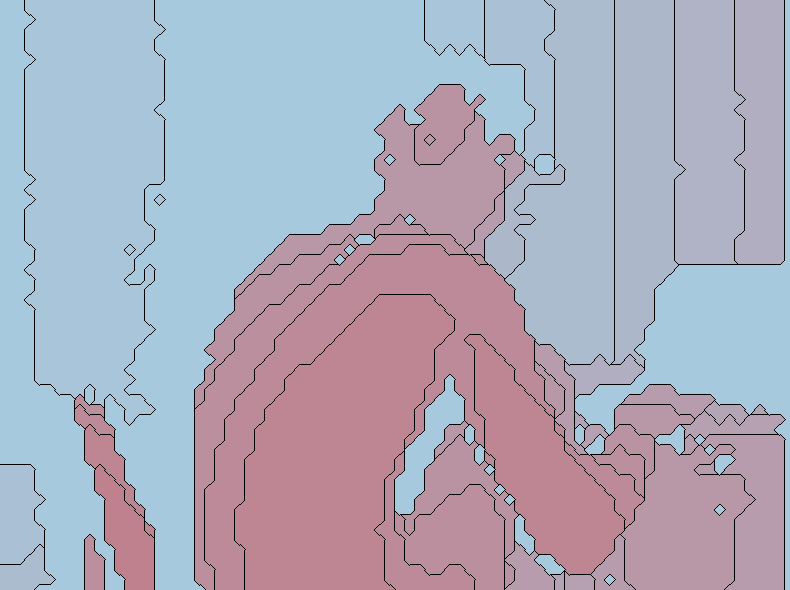
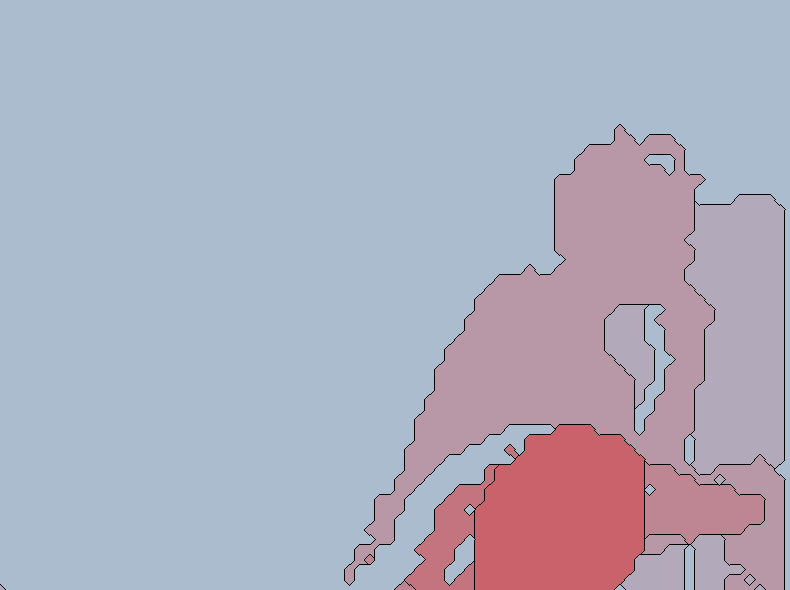
Optimisations and sever implementation

diff --git a/test.html b/test.html
@@ -5,15 +5,191 @@
     <title>AR sandbox</title>
   </head>
   <body>
-    <img id="image" src="./test.png?request=0">
+    <style>
+      #container {
+        position:relative;
+        width: 100%;
+        height: 100%;
+        overflow: clip;
+      }
+
+      #box {
+        position: absolute;
+        top: 0px;
+        left: 0px;
+        width: 150px;
+        height: 120px;
+        border: 0px;
+        transform-origin: 0 0;
+        -webkit-transform-origin: 0 0;
+        -moz-transform-origin: 0 0;
+        -o-transform-origin: 0 0;
+      }
+
+      .corner {
+        position: absolute;
+        top: 0px; left: 0px;
+        border: 1px solid blue;
+        background-color: blue;
+        z-index: 100;
+      }
+
+      .altCorner {
+        display: none;
+      }
+
+    </style>
+
+    <div id="container">
+      <img id="box" src="./test.png?request=0">
+      <div id="marker0" class="corner">TL</div>
+      <div id="marker2" class="corner">TR</div>
+      <div id="marker4" class="corner">BL</div>
+      <div id="marker6" class="corner">BR</div>
+  </div>
+
+    <!--Listen for edit mode on and off-->
+    <script>
+      window.onkeyup = function(e) {
+        var key = e.keyCode ? e.keyCode : e.which;
+
+        if (key == 69) {
+          document.getElementById("marker0").classList.toggle('altCorner');
+          document.getElementById("marker2").classList.toggle('altCorner');
+          document.getElementById("marker4").classList.toggle('altCorner');
+          document.getElementById("marker6").classList.toggle('altCorner');
+        }
+      }
+    </script>
+    <!-- Refresh image-->
     <script>
       counter=1;
       function redraw() {
-        document.getElementById("image").src="./test.png?request="+counter;
+        document.getElementById("box").src="./test.png?request="+counter;
         counter++;
       }
       window.setInterval(redraw, 1000);
 
+    </script>
+    <!--magic transform stuff-->
+    <script>
+      function adj(m) { // Compute the adjugate of m
+        return [
+          m[4]*m[8]-m[5]*m[7], m[2]*m[7]-m[1]*m[8], m[1]*m[5]-m[2]*m[4],
+          m[5]*m[6]-m[3]*m[8], m[0]*m[8]-m[2]*m[6], m[2]*m[3]-m[0]*m[5],
+          m[3]*m[7]-m[4]*m[6], m[1]*m[6]-m[0]*m[7], m[0]*m[4]-m[1]*m[3]
+        ];
+      }
+      function multmm(a, b) { // multiply two matrices
+        var c = Array(9);
+        for (var i = 0; i != 3; ++i) {
+          for (var j = 0; j != 3; ++j) {
+            var cij = 0;
+            for (var k = 0; k != 3; ++k) {
+              cij += a[3*i + k]*b[3*k + j];
+            }
+            c[3*i + j] = cij;
+          }
+        }
+        return c;
+      }
+      function multmv(m, v) { // multiply matrix and vector
+        return [
+          m[0]*v[0] + m[1]*v[1] + m[2]*v[2],
+          m[3]*v[0] + m[4]*v[1] + m[5]*v[2],
+          m[6]*v[0] + m[7]*v[1] + m[8]*v[2]
+        ];
+      }
+      function pdbg(m, v) {
+        var r = multmv(m, v);
+        return r + " (" + r[0]/r[2] + ", " + r[1]/r[2] + ")";
+      }
+      function basisToPoints(x1, y1, x2, y2, x3, y3, x4, y4) {
+        var m = [
+          x1, x2, x3,
+          y1, y2, y3,
+           1,  1,  1
+        ];
+        var v = multmv(adj(m), [x4, y4, 1]);
+        return multmm(m, [
+          v[0], 0, 0,
+          0, v[1], 0,
+          0, 0, v[2]
+        ]);
+      }
+      function general2DProjection(
+        x1s, y1s, x1d, y1d,
+        x2s, y2s, x2d, y2d,
+        x3s, y3s, x3d, y3d,
+        x4s, y4s, x4d, y4d
+      ) {
+        var s = basisToPoints(x1s, y1s, x2s, y2s, x3s, y3s, x4s, y4s);
+        var d = basisToPoints(x1d, y1d, x2d, y2d, x3d, y3d, x4d, y4d);
+        return multmm(d, adj(s));
+      }
+      function project(m, x, y) {
+        var v = multmv(m, [x, y, 1]);
+        return [v[0]/v[2], v[1]/v[2]];
+      }
+      function transform2d(elt, x1, y1, x2, y2, x3, y3, x4, y4) {
+        var w = elt.offsetWidth, h = elt.offsetHeight;
+        var t = general2DProjection
+          (0, 0, x1, y1, w, 0, x2, y2, 0, h, x3, y3, w, h, x4, y4);
+        for(i = 0; i != 9; ++i) t[i] = t[i]/t[8];
+        t = [t[0], t[3], 0, t[6],
+             t[1], t[4], 0, t[7],
+             0   , 0   , 1, 0   ,
+             t[2], t[5], 0, t[8]];
+        t = "matrix3d(" + t.join(", ") + ")";
+        elt.style["-webkit-transform"] = t;
+        elt.style["-moz-transform"] = t;
+        elt.style["-o-transform"] = t;
+        elt.style.transform = t;
+      }
+
+      corners = [100, 100, 300, 100, 100, 300, 300, 300];
+      function update() {
+        var box = document.getElementById("box");
+        transform2d(box, corners[0], corners[1], corners[2], corners[3],
+                         corners[4], corners[5], corners[6], corners[7]);
+        for (var i = 0; i != 8; i += 2) {
+          var elt = document.getElementById("marker" + i);
+          elt.style.left = corners[i] + "px";
+          elt.style.top = corners[i + 1] + "px";
+        }
+      }
+      function move(evnt) {
+        if (currentcorner < 0) return;
+        corners[currentcorner] = evnt.pageX;
+        corners[currentcorner + 1] = evnt.pageY;
+        update();
+      }
+      currentcorner = -1;
+      window.addEventListener('load', function() {
+        document.documentElement.style.margin="0px";
+        document.documentElement.style.padding="0px";
+        document.body.style.margin="0px";
+        document.body.style.padding="0px";
+        update();
+      });
+      window.addEventListener('mousedown', function(evnt) {
+        var x = evnt.pageX, y = evnt.pageY, dx, dy;
+        var best = 400; // 20px grab radius
+        currentcorner = -1;
+        for (var i = 0; i != 8; i += 2) {
+          dx = x - corners[i];
+          dy = y - corners[i + 1];
+          if (best > dx*dx + dy*dy) {
+            best = dx*dx + dy*dy;
+            currentcorner = i;
+          }
+        }
+        move(evnt);
+      });
+      window.addEventListener('mouseup', function(evnt) {
+        currentcorner = -1;
+      })
+      window.addEventListener('mousemove', move);
     </script>
   </body>
 </html>

diff --git a/main.py b/main.py
@@ -1,9 +1,14 @@
 from freenect import sync_get_depth as get_depth, sync_get_video as get_video
 from PIL import Image
+from datetime import datetime
+from http.server import BaseHTTPRequestHandler, HTTPServer
+import threading
 
 class sandbox(object):
     def __init__(self, colourScale):
         self.colourScale = colourScale
+        self.depthCache = None
+        self.imageCache = None
 
     def generateColour(self, percent):
         if percent==0.0:
@@ -113,6 +118,36 @@ class sandbox(object):
 
         return contours
 
+    def drawSquare(self, type, c1, c2, c3):
+        pass
+
+    def singleSquare(self, p1, p2, p3, p4, thresh, c1=(0, 0, 0, 0), c2=(0, 0, 0, 255), c3=(255, 255, 255, 255)):
+        images = [[c3, c3, c3, c3, c3, c3, c3, c3, c3, c3, c3, c3, c3, c3, c3, c3, c3, c3, c3, c3, c3, c3, c3, c3, c3, c3, c3, c3, c3, c3, c3, c3, c3, c3, c3, c3, c3, c3, c3, c3, c3, c3, c3, c3, c3, c3, c3, c3, c3, c3, c3, c3, c3, c3, c3, c3, c3, c3, c3, c3, c3, c3, c3, c3, c3, c3, c3, c3, c3, c3, c3, c3, c3, c3, c3, c3, c3, c3, c3, c3, c3, c3, c3, c3, c3, c3, c3, c3, c3, c3, c3, c3, c3, c3, c3, c3, c3, c3, c3, c3],[c3, c3, c3, c3, c3, c3, c3, c3, c3, c3, c3, c3, c3, c3, c3, c3, c3, c3, c3, c3, c3, c3, c3, c3, c3, c3, c3, c3, c3, c3, c3, c3, c3, c3, c3, c3, c3, c3, c3, c3, c2, c3, c3, c3, c3, c3, c3, c3, c3, c3, c1, c2, c3, c3, c3, c3, c3, c3, c3, c3, c1, c1, c2, c3, c3, c3, c3, c3, c3, c3, c1, c1, c1, c2, c3, c3, c3, c3, c3, c3, c1, c1, c1, c1, c2, c3, c3, c3, c3, c3, c1, c1, c1, c1, c1, c2, c3, c3, c3, c3],[c3, c3, c3, c3, c3, c3, c3, c3, c3, c3, c3, c3, c3, c3, c3, c3, c3, c3, c3, c3, c3, c3, c3, c3, c3, c3, c3, c3, c3, c3, c3, c3, c3, c3, c3, c3, c3, c3, c3, c3, c3, c3, c3, c3, c3, c3, c3, c3, c3, c2, c3, c3, c3, c3, c3, c3, c3, c3, c2, c1, c3, c3, c3, c3, c3, c3, c3, c2, c1, c1, c3, c3, c3, c3, c3, c3, c2, c1, c1, c1, c3, c3, c3, c3, c3, c2, c1, c1, c1, c1, c3, c3, c3, c3, c2, c1, c1, c1, c1, c1],[c3, c3, c3, c3, c3, c3, c3, c3, c3, c3, c3, c3, c3, c3, c3, c3, c3, c3, c3, c3, c3, c3, c3, c3, c3, c3, c3, c3, c3, c3, c3, c3, c3, c3, c3, c3, c3, c3, c3, c3, c2, c2, c2, c2, c2, c2, c2, c2, c2, c2, c1, c1, c1, c1, c1, c1, c1, c1, c1, c1, c1, c1, c1, c1, c1, c1, c1, c1, c1, c1, c1, c1, c1, c1, c1, c1, c1, c1, c1, c1, c1, c1, c1, c1, c1, c1, c1, c1, c1, c1, c1, c1, c1, c1, c1, c1, c1, c1, c1, c1],[c3, c3, c3, c3, c2, c1, c1, c1, c1, c1, c3, c3, c3, c3, c3, c2, c1, c1, c1, c1, c3, c3, c3, c3, c3, c3, c2, c1, c1, c1, c3, c3, c3, c3, c3, c3, c3, c2, c1, c1, c3, c3, c3, c3, c3, c3, c3, c3, c2, c1, c3, c3, c3, c3, c3, c3, c3, c3, c3, c2, c3, c3, c3, c3, c3, c3, c3, c3, c3, c3, c3, c3, c3, c3, c3, c3, c3, c3, c3, c3, c3, c3, c3, c3, c3, c3, c3, c3, c3, c3, c3, c3, c3, c3, c3, c3, c3, c3, c3, c3],[c3, c3, c3, c3, c2, c1, c1, c1, c1, c1, c3, c3, c3, c2, c1, c1, c1, c1, c1, c1, c3, c3, c2, c1, c1, c1, c1, c1, c1, c1, c3, c2, c1, c1, c1, c1, c1, c1, c1, c1, c2, c1, c1, c1, c1, c1, c1, c1, c1, c2, c1, c1, c1, c1, c1, c1, c1, c1, c2, c3, c1, c1, c1, c1, c1, c1, c1, c2, c3, c3, c1, c1, c1, c1, c1, c1, c2, c3, c3, c3, c1, c1, c1, c1, c1, c2, c3, c3, c3, c3, c1, c1, c1, c1, c2, c3, c3, c3, c3, c3],[c3, c3, c3, c3, c2, c1, c1, c1, c1, c1, c3, c3, c3, c3, c2, c1, c1, c1, c1, c1, c3, c3, c3, c3, c2, c1, c1, c1, c1, c1, c3, c3, c3, c3, c2, c1, c1, c1, c1, c1, c3, c3, c3, c3, c2, c1, c1, c1, c1, c1, c3, c3, c3, c3, c2, c1, c1, c1, c1, c1, c3, c3, c3, c3, c2, c1, c1, c1, c1, c1, c3, c3, c3, c3, c2, c1, c1, c1, c1, c1, c3, c3, c3, c3, c2, c1, c1, c1, c1, c1, c3, c3, c3, c3, c2, c1, c1, c1, c1, c1],[c3, c3, c3, c3, c2, c1, c1, c1, c1, c1, c3, c3, c3, c2, c1, c1, c1, c1, c1, c1, c3, c3, c2, c1, c1, c1, c1, c1, c1, c1, c3, c2, c1, c1, c1, c1, c1, c1, c1, c1, c2, c1, c1, c1, c1, c1, c1, c1, c1, c1, c1, c1, c1, c1, c1, c1, c1, c1, c1, c1, c1, c1, c1, c1, c1, c1, c1, c1, c1, c1, c1, c1, c1, c1, c1, c1, c1, c1, c1, c1, c1, c1, c1, c1, c1, c1, c1, c1, c1, c1, c1, c1, c1, c1, c1, c1, c1, c1, c1, c1],[c1, c1, c1, c1, c2, c3, c3, c3, c3, c3, c1, c1, c1, c2, c3, c3, c3, c3, c3, c3, c1, c1, c2, c3, c3, c3, c3, c3, c3, c3, c1, c2, c3, c3, c3, c3, c3, c3, c3, c3, c2, c3, c3, c3, c3, c3, c3, c3, c3, c3, c3, c3, c3, c3, c3, c3, c3, c3, c3, c3, c3, c3, c3, c3, c3, c3, c3, c3, c3, c3, c3, c3, c3, c3, c3, c3, c3, c3, c3, c3, c3, c3, c3, c3, c3, c3, c3, c3, c3, c3, c3, c3, c3, c3, c3, c3, c3, c3, c3, c3],[c1, c1, c1, c1, c2, c3, c3, c3, c3, c3, c1, c1, c1, c1, c2, c3, c3, c3, c3, c3, c1, c1, c1, c1, c2, c3, c3, c3, c3, c3, c1, c1, c1, c1, c2, c3, c3, c3, c3, c3, c1, c1, c1, c1, c2, c3, c3, c3, c3, c3, c1, c1, c1, c1, c2, c3, c3, c3, c3, c3, c1, c1, c1, c1, c2, c3, c3, c3, c3, c3, c1, c1, c1, c1, c2, c3, c3, c3, c3, c3, c1, c1, c1, c1, c2, c3, c3, c3, c3, c3, c1, c1, c1, c1, c2, c3, c3, c3, c3, c3],[c1, c1, c1, c1, c2, c3, c3, c3, c3, c3, c1, c1, c1, c1, c1, c2, c3, c3, c3, c3, c1, c1, c1, c1, c1, c1, c2, c3, c3, c3, c1, c1, c1, c1, c1, c1, c1, c2, c3, c3, c2, c1, c1, c1, c1, c1, c1, c1, c2, c3, c3, c2, c1, c1, c1, c1, c1, c1, c1, c2, c3, c3, c2, c1, c1, c1, c1, c1, c1, c1, c3, c3, c3, c2, c1, c1, c1, c1, c1, c1, c3, c3, c3, c3, c2, c1, c1, c1, c1, c1, c3, c3, c3, c3, c3, c2, c1, c1, c1, c1],[c1, c1, c1, c1, c2, c3, c3, c3, c3, c3, c1, c1, c1, c1, c1, c2, c3, c3, c3, c3, c1, c1, c1, c1, c1, c1, c2, c3, c3, c3, c1, c1, c1, c1, c1, c1, c1, c2, c3, c3, c1, c1, c1, c1, c1, c1, c1, c1, c2, c3, c1, c1, c1, c1, c1, c1, c1, c1, c1, c2, c1, c1, c1, c1, c1, c1, c1, c1, c1, c1, c1, c1, c1, c1, c1, c1, c1, c1, c1, c1, c1, c1, c1, c1, c1, c1, c1, c1, c1, c1, c1, c1, c1, c1, c1, c1, c1, c1, c1, c1],[c1, c1, c1, c1, c1, c1, c1, c1, c1, c1, c1, c1, c1, c1, c1, c1, c1, c1, c1, c1, c1, c1, c1, c1, c1, c1, c1, c1, c1, c1, c1, c1, c1, c1, c1, c1, c1, c1, c1, c1, c2, c2, c2, c2, c2, c2, c2, c2, c2, c2, c3, c3, c3, c3, c3, c3, c3, c3, c3, c3, c3, c3, c3, c3, c3, c3, c3, c3, c3, c3, c3, c3, c3, c3, c3, c3, c3, c3, c3, c3, c3, c3, c3, c3, c3, c3, c3, c3, c3, c3, c3, c3, c3, c3, c3, c3, c3, c3, c3, c3],[c1, c1, c1, c1, c1, c1, c1, c1, c1, c1, c1, c1, c1, c1, c1, c1, c1, c1, c1, c1, c1, c1, c1, c1, c1, c1, c1, c1, c1, c1, c1, c1, c1, c1, c1, c1, c1, c1, c1, c1, c1, c1, c1, c1, c1, c1, c1, c1, c1, c2, c1, c1, c1, c1, c1, c1, c1, c1, c2, c3, c1, c1, c1, c1, c1, c1, c1, c2, c3, c3, c1, c1, c1, c1, c1, c1, c2, c3, c3, c3, c1, c1, c1, c1, c1, c2, c3, c3, c3, c3, c1, c1, c1, c1, c2, c3, c3, c3, c3, c3],[c1, c1, c1, c1, c1, c1, c1, c1, c1, c1, c1, c1, c1, c1, c1, c1, c1, c1, c1, c1, c1, c1, c1, c1, c1, c1, c1, c1, c1, c1, c1, c1, c1, c1, c1, c1, c1, c1, c1, c1, c2, c1, c1, c1, c1, c1, c1, c1, c1, c1, c3, c2, c1, c1, c1, c1, c1, c1, c1, c1, c3, c3, c2, c1, c1, c1, c1, c1, c1, c1, c3, c3, c3, c2, c1, c1, c1, c1, c1, c1, c3, c3, c3, c3, c2, c1, c1, c1, c1, c1, c3, c3, c3, c3, c3, c2, c1, c1, c1, c1],[c1, c1, c1, c1, c1, c1, c1, c1, c1, c1, c1, c1, c1, c1, c1, c1, c1, c1, c1, c1, c1, c1, c1, c1, c1, c1, c1, c1, c1, c1, c1, c1, c1, c1, c1, c1, c1, c1, c1, c1, c1, c1, c1, c1, c1, c1, c1, c1, c1, c1, c1, c1, c1, c1, c1, c1, c1, c1, c1, c1, c1, c1, c1, c1, c1, c1, c1, c1, c1, c1, c1, c1, c1, c1, c1, c1, c1, c1, c1, c1, c1, c1, c1, c1, c1, c1, c1, c1, c1, c1, c1, c1, c1, c1, c1, c1, c1, c1, c1, c1]]
+
+        if p1 > thresh:
+            p1=True
+        else:
+            p1=False
+
+        if p2 > thresh:
+            p2=True
+        else:
+            p2=False
+
+        if p3 > thresh:
+            p3=True
+        else:
+            p3=False
+
+        if p4 > thresh:
+            p4=True
+        else:
+            p4=False
+
+        img = Image.new('RGBA', (10, 10))
+        img.putdata(images[self.lookup(p1, p2, p3, p4)])
+        return img
+
     def drawing(self, contour, c1, c2, c3):
         #c1 under colour
         #c2 line colour
@@ -153,7 +188,19 @@ class sandbox(object):
 
     def generateSingleFrame(self, interval, start, end, stride=8):
         depth = get_depth()[0]
+        depth = self.adjustDepth(depth, stride)
+        self.depthCache = depth
+        layers = []
+        for i in range(start, end, interval):
+            layers.append(self.generateSingleLayer(i, depth, c3=self.generateColour((float(i)/(float(end)-float(start))))))
 
+        for i in range(1, len(layers)):
+            layers[0].paste(layers[i], (0, 0), layers[i])
+        layers=layers[0]
+        self.imageCache = layers
+        return layers
+
+    def adjustDepth(self, depth, stride):
         #lower resolution of array
         newDepth = []
         one = 0
@@ -169,25 +216,105 @@ class sandbox(object):
                     two += 1
                     if two % stride != 0:
                         continue
+
                     else:
                         line.append(w)
 
                 newDepth.append(line)
-        depth = newDepth
+        return newDepth
 
-        layers = []
+    def resolveDeltas(self, depth, cache, deltaThreshold):
+        refreshPoints=[]
+        self.logger("Resolving deltas ", 3)
+        for h in range(len(depth)):
+            for w in range(len(depth[0])):
+                if abs(float(depth[h][w]) - float(cache[h][w])) < float(deltaThreshold):
+                    continue
+                else:
+                    refreshPoints.append((h, w))
+
+        return refreshPoints
+
+    def patchImage(self, interval, start, end, stride=8, deltaThreshold=10):
+        depth = get_depth()[0]
+        depth = self.adjustDepth(depth, stride)
+        oldDepth = self.depthCache
+        self.depthCache = depth
+        patchedImage = self.imageCache
+
+        changes = self.resolveDeltas(depth, oldDepth, deltaThreshold)
+        newSquares = set()
+        self.logger(str(len(changes))+" deltas", 3)
+        for c in changes:
+            #top left square
+            try:
+                newSquares.add((((c[1]-1)*10, (c[0]-1)*10), (depth[c[0]-1][c[1]-1], depth[c[0]-1][c[1]], depth[c[0]][c[1]-1], depth[c[0]][c[1]])))
+            except IndexError:
+                continue
+
+            #top right square
+            try:
+                newSquares.add(((c[1]*10, (c[0]-1)*10), (depth[c[0]-1][c[1]], depth[c[0]-1][c[1]+1], depth[c[0]][c[1]], depth[c[0]][c[1]+1])))
+            except IndexError:
+                continue
+
+            #bottom left square
+            try:
+                newSquares.add((((c[1]-1)*10, c[0]*10), (depth[c[0]][c[1]-1], depth[c[0]][c[1]], depth[c[0]+1][c[1]-1], depth[c[0]+1][c[1]])))
+            except IndexError:
+                continue
+
+            #bottom right square
+            try:
+                newSquares.add(((c[1]*10, c[0]*10), (depth[c[0]][c[1]], depth[c[0]][c[1]+1], depth[c[0]+1][c[1]], depth[c[0]+1][c[1]+1])))
+            except IndexError:
+                continue
+
+        self.logger("Drawing", 3)
         for i in range(start, end, interval):
-            layers.append(self.generateSingleLayer(i, depth, c3=self.generateColour((float(i)/(float(end)-float(start))))))
+            for square in newSquares:
+                patchSquare = self.singleSquare(square[1][0], square[1][1], square[1][2], square[1][3], i, c3=self.generateColour((float(i)/(float(end)-float(start)))))
+                patchedImage.paste(patchSquare, (square[0][0], square[0][1]), patchSquare)
 
-        for i in range(1, len(layers)):
-            layers[0].paste(layers[i], (0, 0), layers[i])
-        layers=layers[0]
+        self.imageCache = patchedImage
+        return patchedImage
 
-        return layers
 
-colourScale=[[0.0, (166,206,227,255)], [0.25, (31,120,180,255)], [0.45, (178,223,138,255)], [0.65, (51,160,44,255)], [0.85, (251,154,153,255)], [1.0, (227,26,28,255)]]
-s=sandbox(colourScale)
+#image server
+class imageServer(BaseHTTPRequestHandler):
+    # GET
+    def do_GET(self):
+        #testing
+        # Send response status code
+        self.send_response(200)
+        # Send headers
+        self.send_header('Content-type','text/html')
+        self.end_headers()
+        # Send message back to client
+        message = "Hello world!"
+        # Write content as utf-8 data
+        self.wfile.write(bytes(message, "utf8"))
+        #/testing
+        return
 
-#import cProfile
-#cProfile.run('s.generateSingleFrame(25, 0, 1000).save("test.png")')
-s.generateSingleFrame(25, 0, 1000).save("test.png")
+def startImageServer(serverAddr, serverPort):
+    # Server settings
+    server_address = (serverAddr, serverPort)
+    httpd = HTTPServer(server_address, imageServer)
+    thread = threading.Thread(target=httpd.serve_forever, args=())
+    thread.start()
+    serverLocation = "http://"+serverAddr + ':' + str(serverPort)
+    return serverLocation
+
+
+    colourScale=[[0.0, (166,206,227,255)], [0.25, (31,120,180,255)], [0.45, (178,223,138,255)], [0.65, (51,160,44,255)], [0.85, (251,154,153,255)], [1.0, (227,26,28,255)]]
+    s=sandbox(colourScale)
+
+    #import cProfile
+    #cProfile.run('s.generateSingleFrame(25, 0, 1000).save("test.png")')
+    s.generateSingleFrame(100, 0, 1000, stride=8).save("test.png")
+    while True:
+        dt = datetime.now()
+        s.patchImage(100, 0, 1000, stride=8, deltaThreshold=20).save("test2.png")
+        dt2 = datetime.now()
+        s.logger(str(float(dt2.microsecond - dt.microsecond)/1000000.0), 4)
